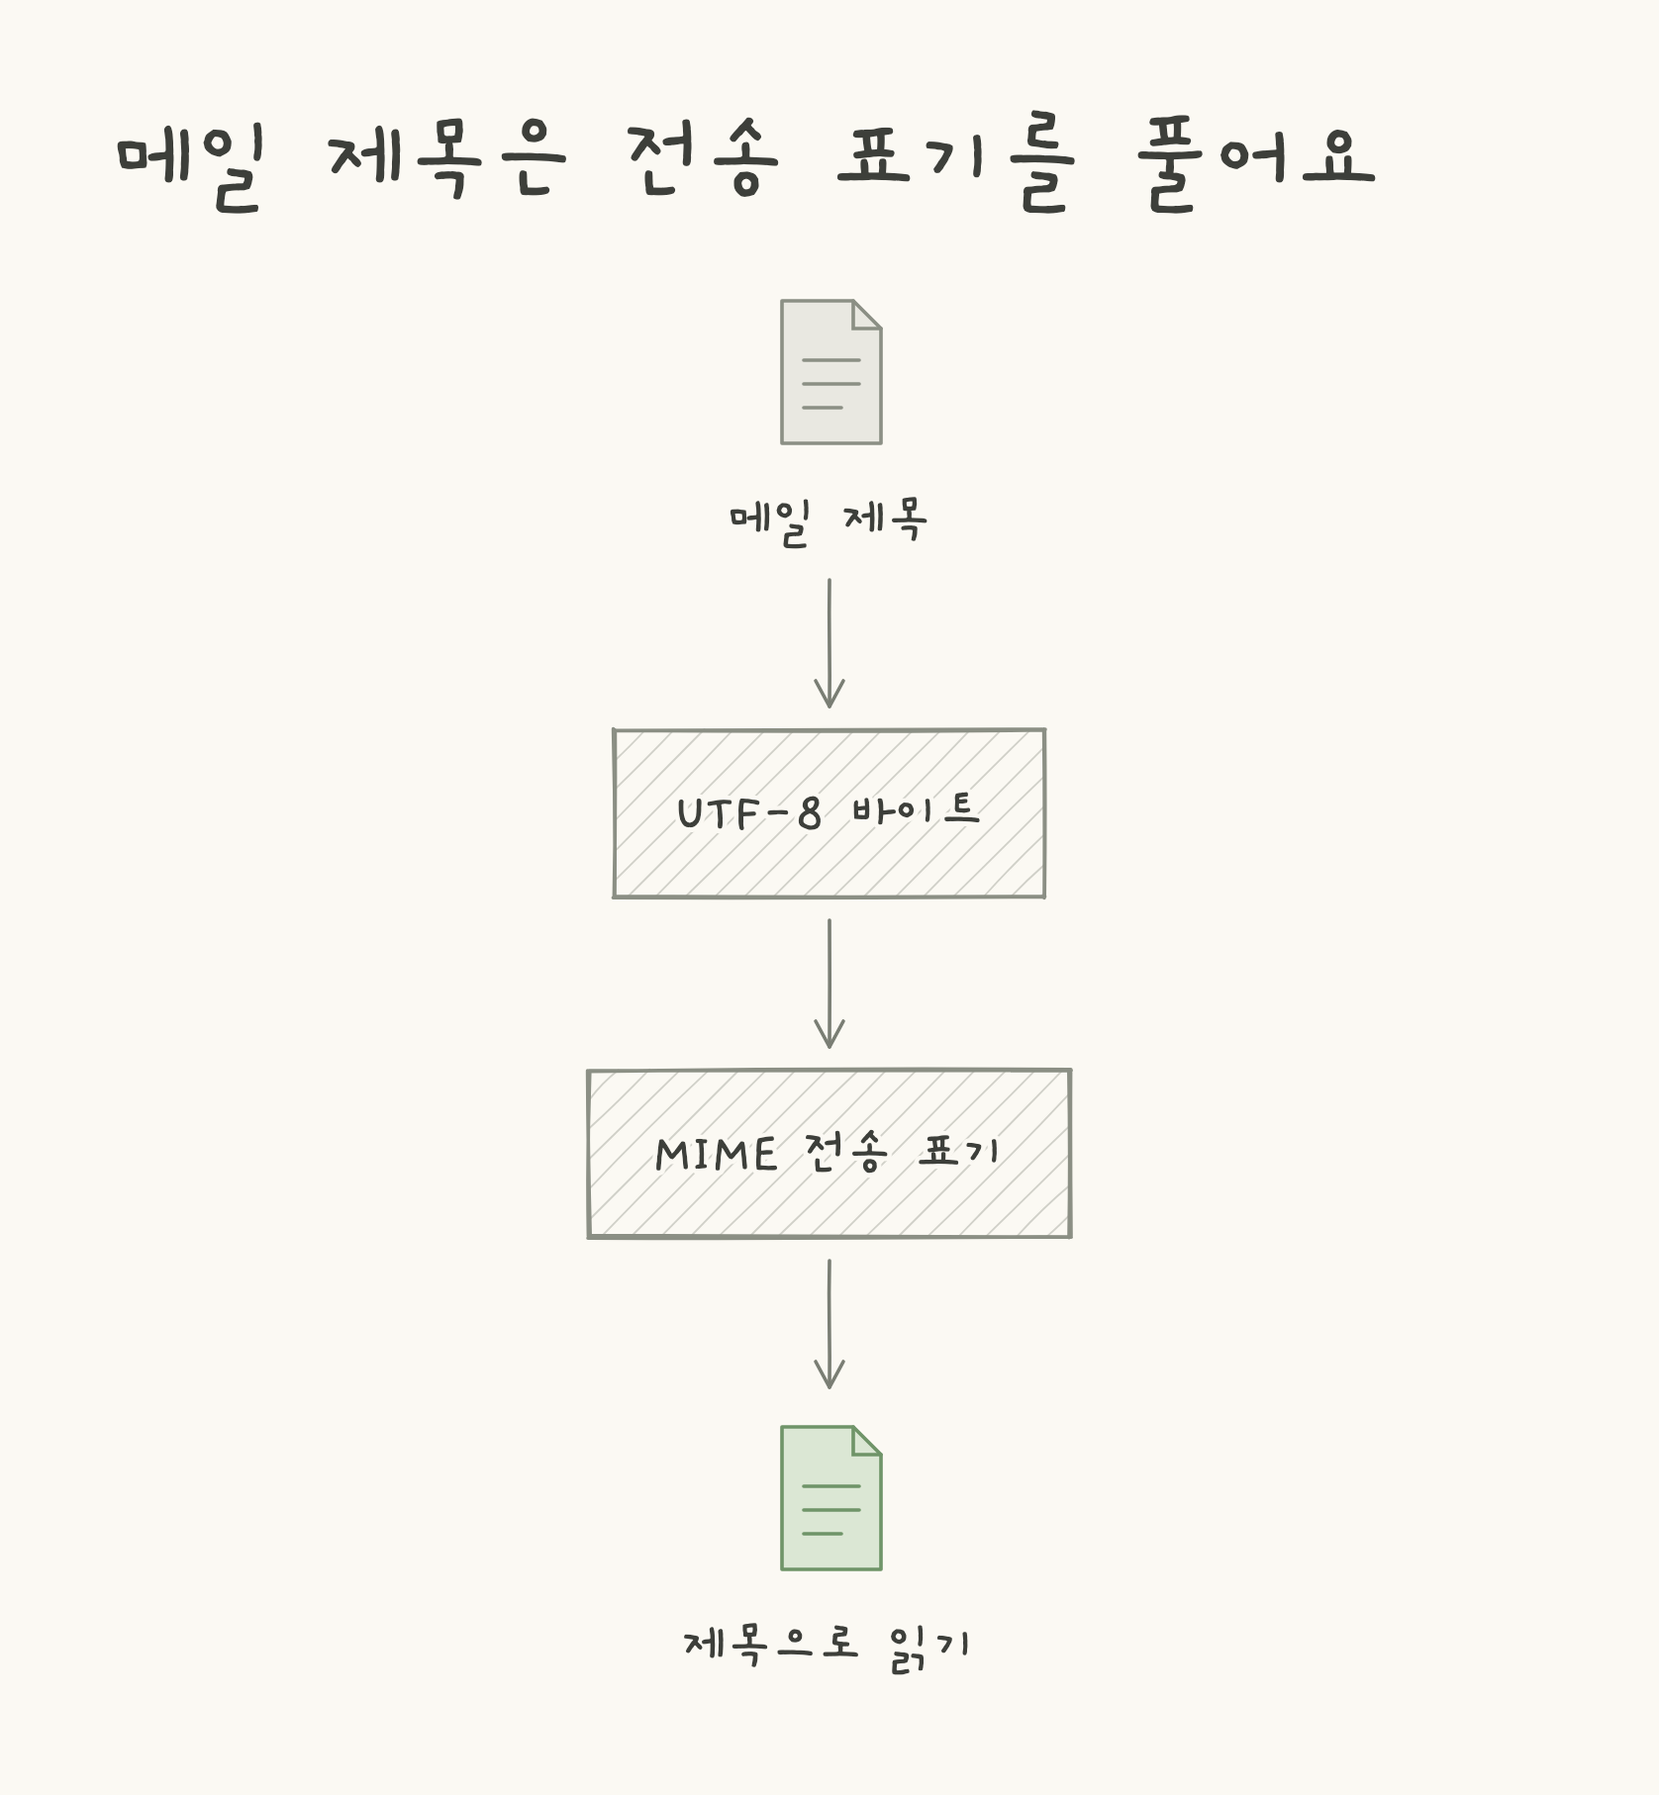
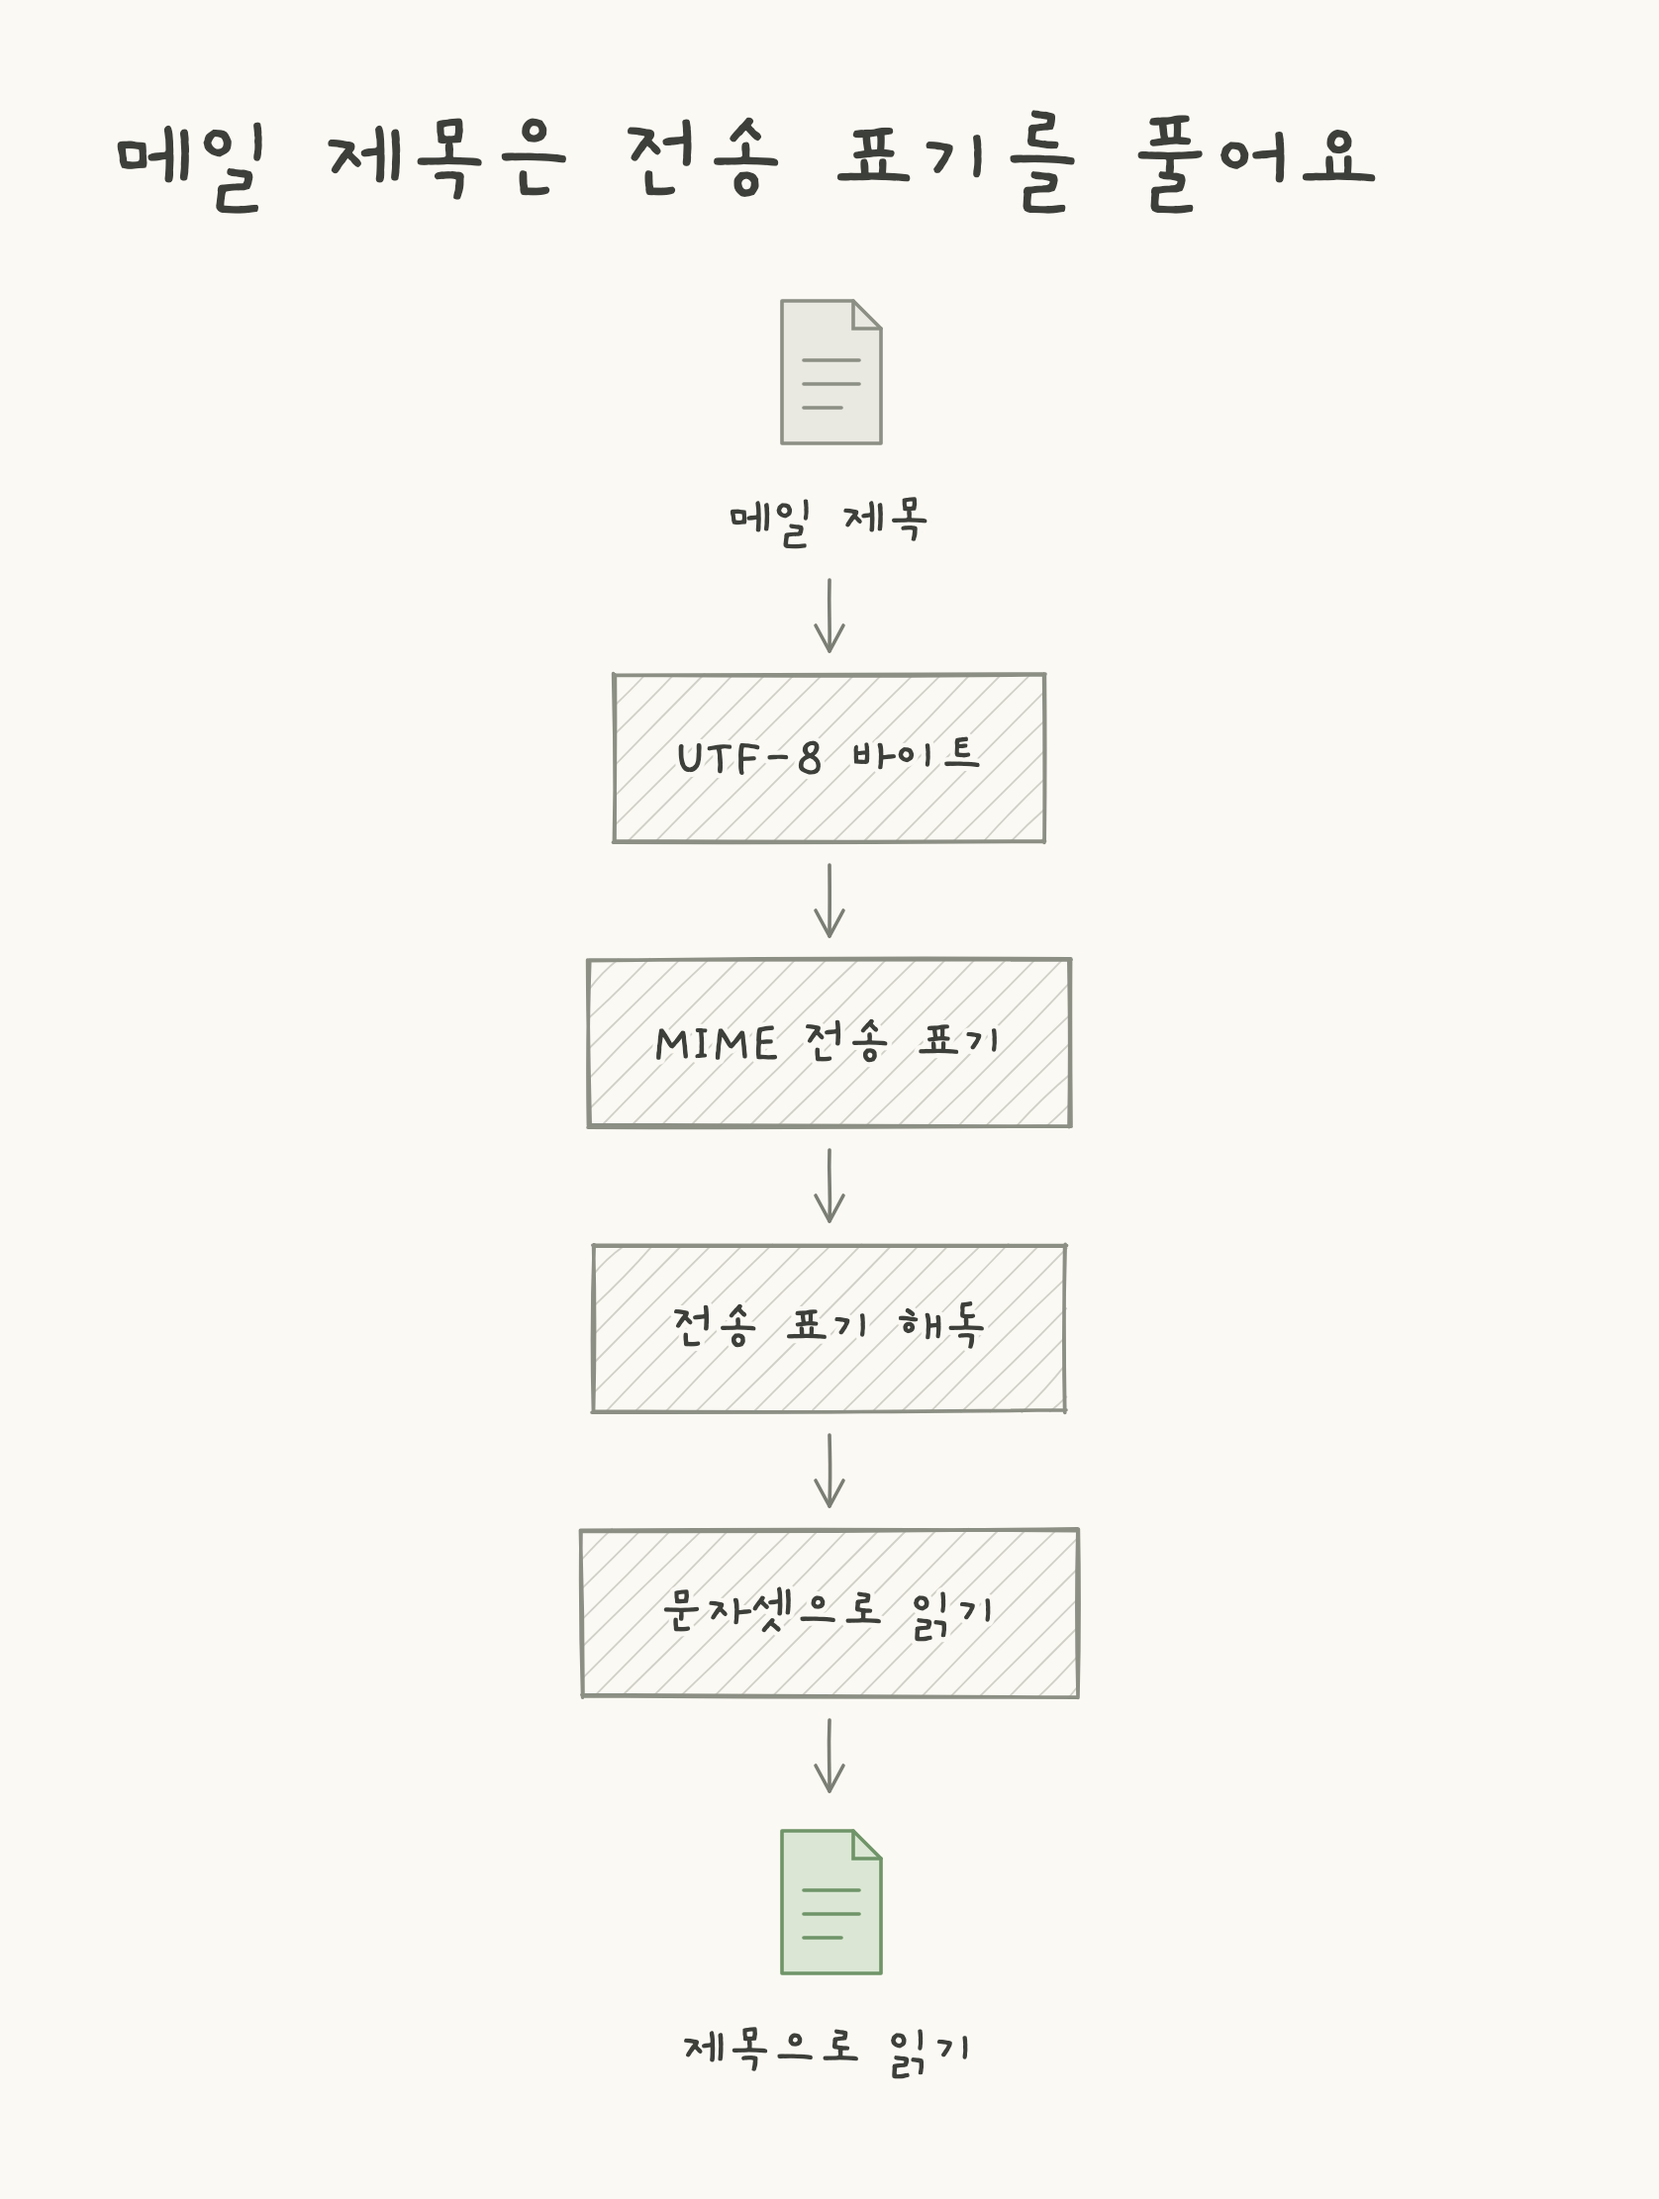
fix: clarify extension output and mail recovery diagrams

diff --git a/tests/e2e/channels.spec.ts b/tests/e2e/channels.spec.ts
@@ -47,6 +47,8 @@ test('unpacked extension decodes locally and keeps values out of requests and st
     })
     expect(JSON.stringify(storage)).not.toContain('channel-canary')
     expect(storage).toEqual([{}, {}, 0, 0])
+    await page.locator('#input').fill('7JWI64WV7ZWY7IS47JqUIOyEuOqzhA==')
+    await expect(page.locator('#output')).toHaveText('안녕하세요 세계')
     await page.screenshot({ path: testInfo.outputPath('extension-1280x800.png') })
   } finally {
     await context.close()

diff --git a/apps/extension/src/style.css b/apps/extension/src/style.css
@@ -27,7 +27,7 @@ p {
   color: #5c6573;
 }
 pre {
-  min-height: 240px;
+  min-height: 64px;
   max-height: 60vh;
   overflow: auto;
   padding: 20px;
@@ -81,4 +81,11 @@ button {
 }
 h2 {
   font-size: 22px;
+}
+
+pre,
+pre code {
+  font:
+    16px/1.6 ui-monospace,
+    monospace;
 }

diff --git a/docs/evidence/decoding-improve-20261115/j-checkpoint.md b/docs/evidence/decoding-improve-20261115/j-checkpoint.md
@@ -11,3 +11,5 @@ DEC-NEXT-011 is in progress. No store submission, npm publication, community pos
 Validation: actual unpacked Chromium extension + six landing browser checks7/7. Extension canary absent from every observed request and local/session stores. Native right-click UI has not been independently exercised; transfer boundary reviewed in source. Screenshot `j/extension-1280x800.png` is synthetic local artifact evidence, not a store/public screenshot claim. Full frontend typecheck passed; names-only network scan/manifest/i18n passed; web initial bundle77.6KiB gzip. Final cross-scope suite and public-origin smoke remain pending.
 
 J7 exact approvals persist. Account authentication/payment/MFA are human-only gates when reached. Independent D onward implementation continues while public-channel requirements are unresolved. A13 full engine explanation DTO migration remains open before declaring A complete.
+
+J visual follow-up: source font16px and shorter output pane, a real Korean Base64 result screenshot, and explicit MIME transport decoding/charset reading steps added to both mail diagrams. Unpacked extension regression1/1 passed; three unsigned bundles rebuilt. Image-only independent re-review confirms both prior findings resolved. Updated diagram font-embedded HTML was reclaimed after PNG transfer; JSON sources and runtime PNG originals retained. This does not establish store approval or actual store thumbnail quality.
